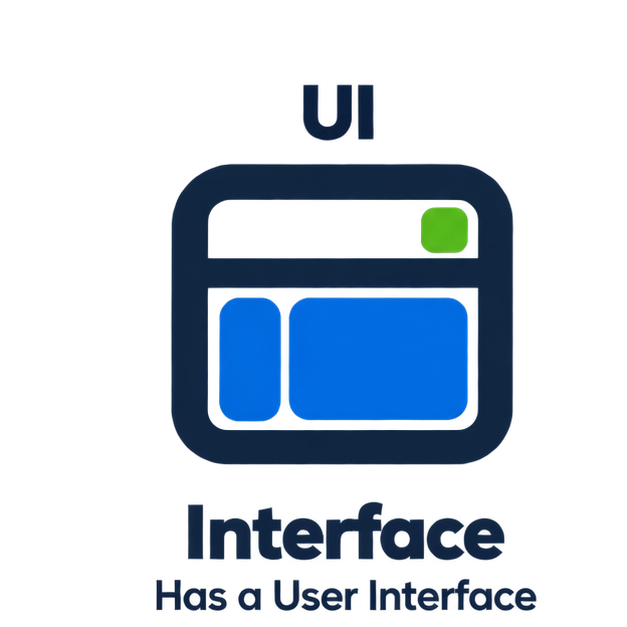
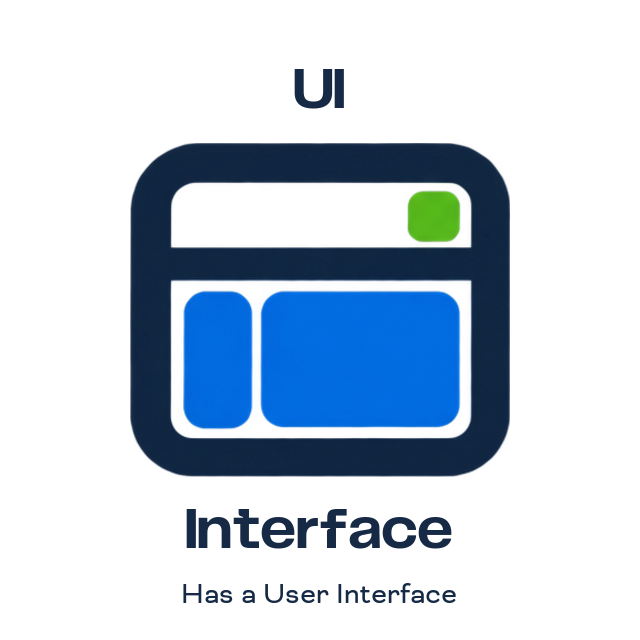
docs: refresh Device and Interface badge artwork

Changed region(s): [[0.1818, 0.0909, 0.8182, 0.7576], [0.2424, 0.7879, 0.8788, 1.0]]

diff --git a/README.md b/README.md
@@ -5,8 +5,8 @@ Run the Node-RED flow editor and runtime on a Doovit, and wire its flows straigh
 ---
 
 <p align="left">
-  <img src="https://raw.githubusercontent.com/getdoover/doover-node-red/main/assets/app-types/app-type-device-coloured.png" alt="App Type: Device — Runs on edge hardware" align="left" width="150" height="240">
-  <img src="https://raw.githubusercontent.com/getdoover/doover-node-red/main/assets/app-types/ui-interface-coloured.png" alt="UI: Interface — Has a User Interface" align="left" width="160" height="160" vspace="16">
+  <img src="https://raw.githubusercontent.com/getdoover/doover-node-red/main/assets/app-types/app-type-device-coloured.png?v=b32d92a2476b" alt="App Type: Device — Runs on edge hardware" align="left" width="180" height="180">
+  <img src="https://raw.githubusercontent.com/getdoover/doover-node-red/main/assets/app-types/ui-interface-coloured.png?v=9274872e15c7" alt="UI: Interface — Has a User Interface" align="left" width="180" height="180">
   <br clear="all">
 </p>
 
